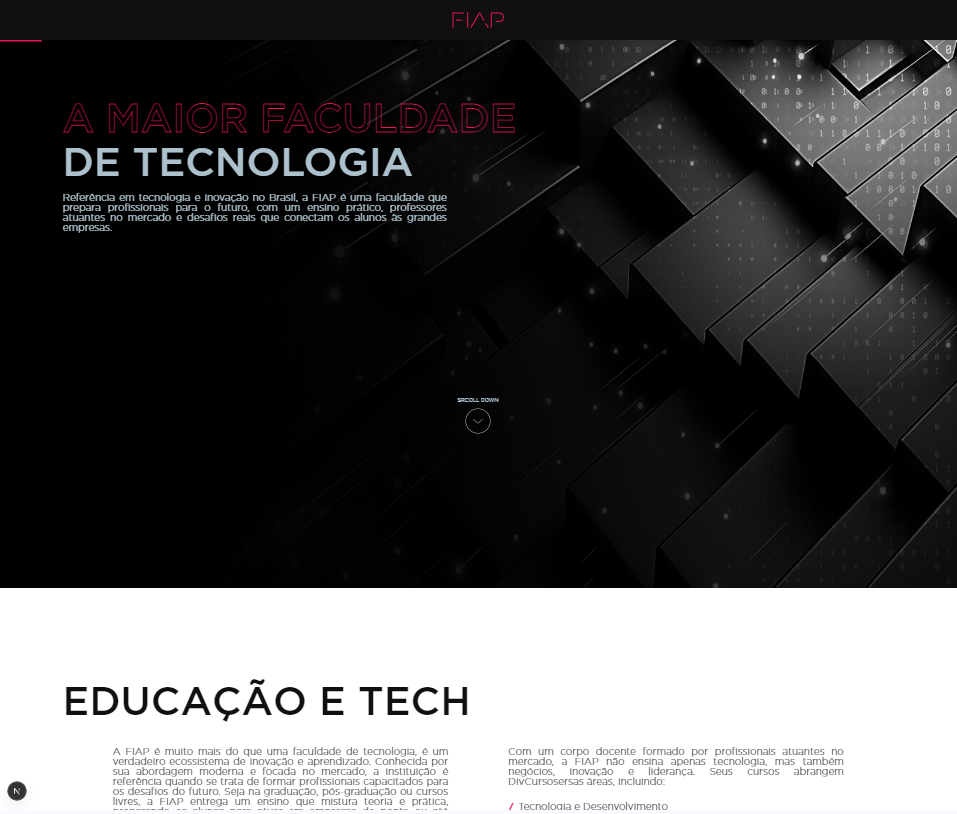
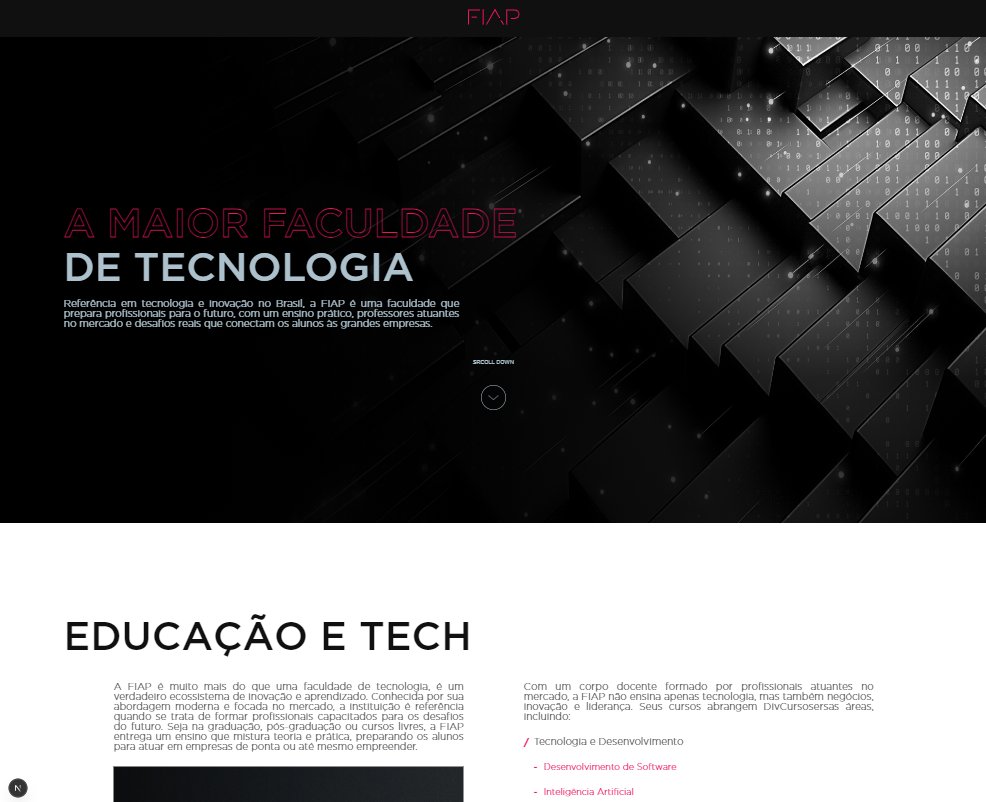
Atualizando section Capa

diff --git a/src/sections/Capa.tsx b/src/sections/Capa.tsx
@@ -24,17 +24,18 @@ const SectionCapa = styled.section<SectionCapaProps>`
     background-color: ${cores.BLACK};
 
     @media (min-width: 413px) {
-        height: 80vh;
+        height: 60vh;
         display: flex;
         flex-direction: column;
         align-items: start;
-        justify-content: space-evenly;
-        gap:20px;
+        justify-content: center;
+        gap:60px;
         background-image: linear-gradient(to right, rgba(0, 0, 0, 1) 20%, rgba(0, 0, 0, 0.7) 50%, rgba(0, 0, 0, 0) 80%),
         linear-gradient(to top, rgba(0, 0, 0, 0.7) 30%, rgba(0, 0, 0, 0) 80%),
         url(${({background}) => background});
         background-position: center;
         background-size: cover;
+        padding-top: 100px;
     }
 `
 

diff --git a/src/components/BotaoDesceSecao/BotaoDesceSecao.styles.ts b/src/components/BotaoDesceSecao/BotaoDesceSecao.styles.ts
@@ -6,6 +6,7 @@ interface ButtonProps{
 }
 
 export const DivBotao = styled.div<ButtonProps>`
+    position: static;
     display: none;
     margin:0 auto 0 auto;
     
@@ -13,7 +14,7 @@ export const DivBotao = styled.div<ButtonProps>`
         display: flex;
         flex-direction: column;
         align-items: center;
-        gap: 10px;
+        gap: 40px;
     }
 `
 

diff --git a/README.md b/README.md
@@ -1,83 +1,36 @@
-# 🌐 Projeto OnePage FIAP
+This is a [Next.js](https://nextjs.org) project bootstrapped with [`create-next-app`](https://nextjs.org/docs/app/api-reference/cli/create-next-app).
 
-Uma landing page moderna e responsiva desenvolvida com **Next.js**, **TypeScript**, **Styled Components** e **GSAP** para animações. O projeto simula uma página institucional com foco em usabilidade, performance e experiência visual animada.
+## Getting Started
 
----
-
-## 🚀 Tecnologias Utilizadas
-
-- **Next.js** – Framework React para SSR/SSG e performance otimizada  
-- **TypeScript** – Superset do JavaScript com tipagem estática  
-- **Styled Components** – Estilização com CSS-in-JS e suporte a temas  
-- **GSAP (GreenSock Animation Platform)** – Biblioteca de animações para web  
-- **React Hooks** – Controle de estado e refs  
-- **Responsividade Mobile First** – Compatível com todos os dispositivos
-
----
-
-## 📸 Imagem do Projeto
-
-![Preview do Projeto](public/preview.PNG)
-
----
-
-## 📦 Como Instalar e Rodar Localmente
-
-### 1. Clone o repositório
-
-```bash
-git clone https://github.com/acquesta/testeFiap.git
-```
-
-### 2. Acesse a pasta do projeto
-
-```bash
-cd testeFiap
-```
-
-### 3. Instale as dependências
-
-```bash
-npm install
-# ou
-yarn install
-```
-
-### 4. Rode o servidor de desenvolvimento
+First, run the development server:
 
 ```bash
 npm run dev
-# ou
+# or
 yarn dev
+# or
+pnpm dev
+# or
+bun dev
 ```
 
-O projeto estará disponível em: `http://localhost:3000`
+Open [http://localhost:3000](http://localhost:3000) with your browser to see the result.
 
----
+You can start editing the page by modifying `app/page.tsx`. The page auto-updates as you edit the file.
 
-## 🧾 Funcionalidades
+This project uses [`next/font`](https://nextjs.org/docs/app/building-your-application/optimizing/fonts) to automatically optimize and load [Geist](https://vercel.com/font), a new font family for Vercel.
 
-- Navegação suave entre seções
-- Animações com GSAP (fade-ins, scroll reveal, accordion)
-- Accordion interativo com animações dinâmicas
-- Layout totalmente responsivo
-- Design moderno e elegante
+## Learn More
 
----
+To learn more about Next.js, take a look at the following resources:
 
-## 🧠 Aprendizados
+- [Next.js Documentation](https://nextjs.org/docs) - learn about Next.js features and API.
+- [Learn Next.js](https://nextjs.org/learn) - an interactive Next.js tutorial.
 
-Durante o desenvolvimento, foram aplicadas boas práticas de:
-- Organização de pastas por responsabilidades
-- Uso de animações desacopladas via GSAP
-- Tipagem segura com TypeScript
-- Styled Components com tema centralizado
-- Acessibilidade básica com marcação semântica
+You can check out [the Next.js GitHub repository](https://github.com/vercel/next.js) - your feedback and contributions are welcome!
 
----
+## Deploy on Vercel
 
-## 📌 Autor
+The easiest way to deploy your Next.js app is to use the [Vercel Platform](https://vercel.com/new?utm_medium=default-template&filter=next.js&utm_source=create-next-app&utm_campaign=create-next-app-readme) from the creators of Next.js.
 
-Desenvolvido por Lorenzo Acquesta (https://github.com/acquesta) 💻
-
----
+Check out our [Next.js deployment documentation](https://nextjs.org/docs/app/building-your-application/deploying) for more details.
